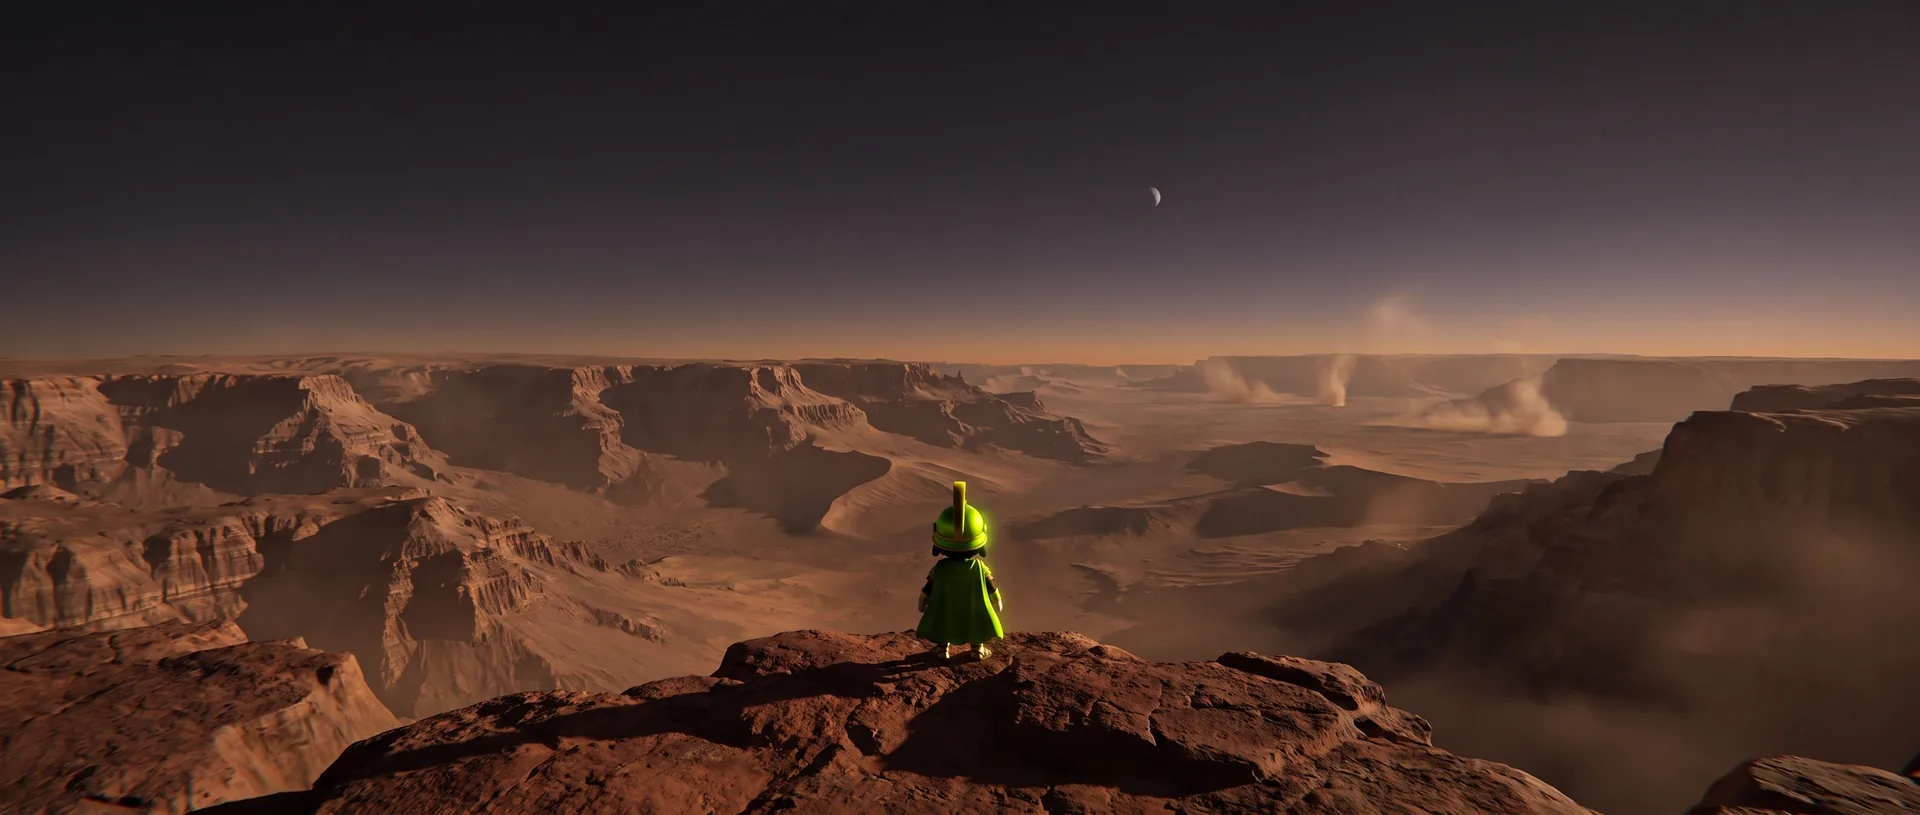
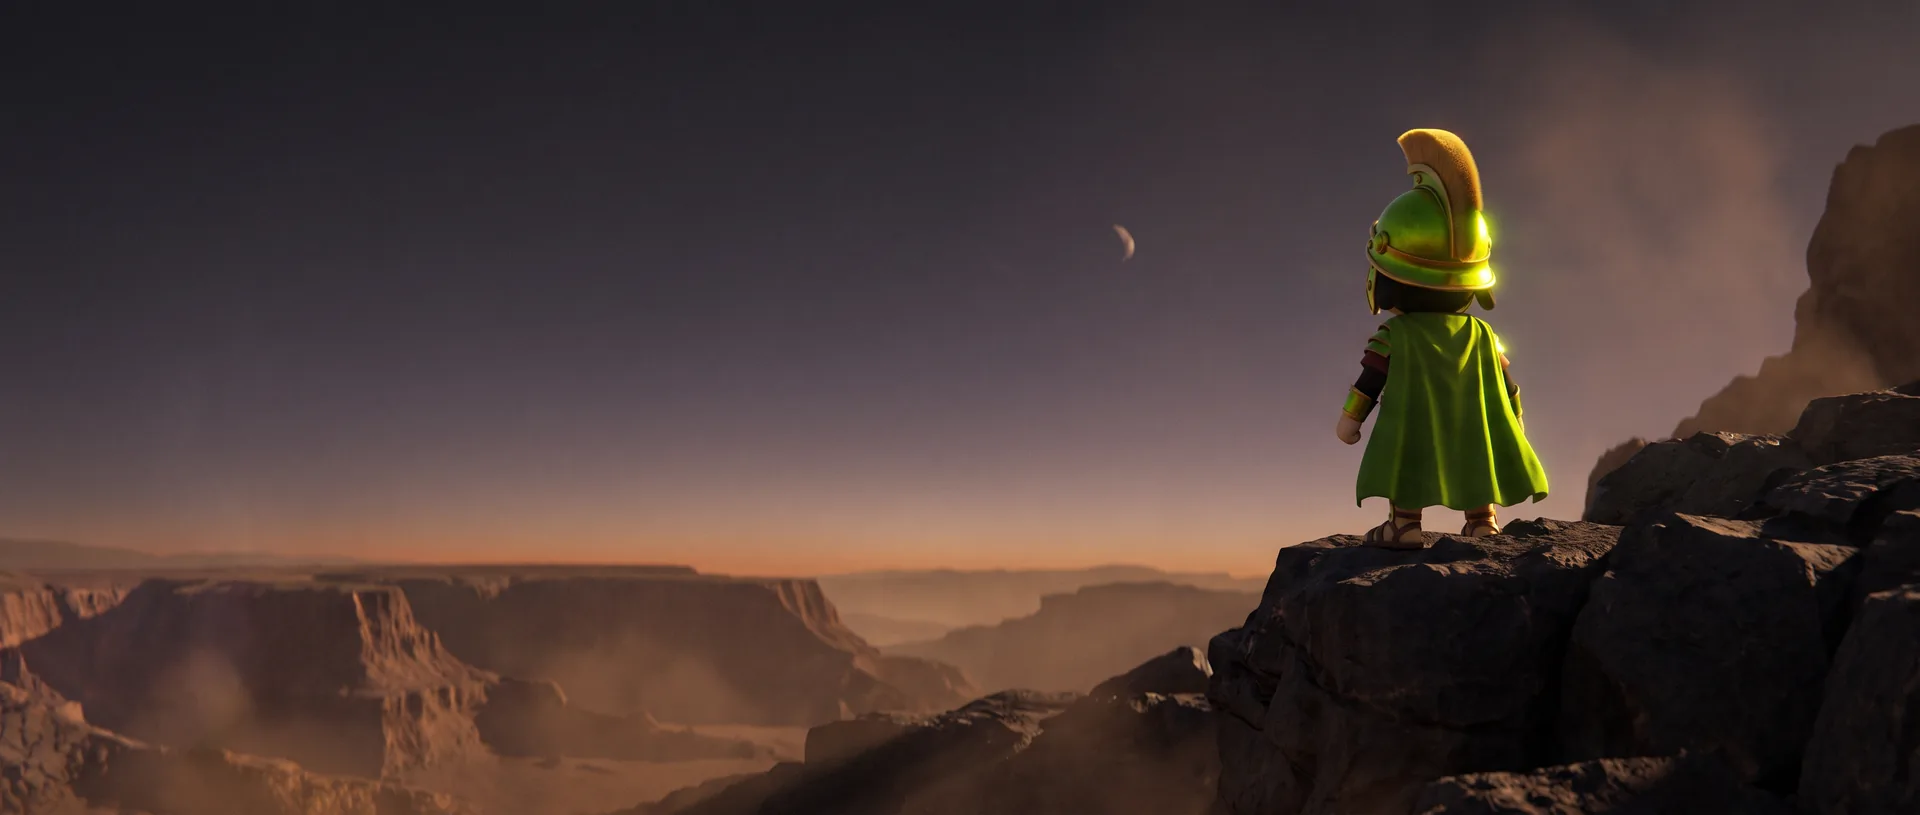
New hero frame and per-breakpoint crop
Reshot the hero so Marvin reads at medium-long range in the right third with
the sky open on the left for the display type. Desktop holds the right of the
21:9 crop; the portrait frame under 760px centres its own subject instead.

diff --git a/src/styles/sections.css b/src/styles/sections.css
@@ -120,9 +120,9 @@
 .hero__media { position: absolute; inset: -6% 0 0; will-change: transform; }
 .hero__media img,
 .hero__media picture { width: 100%; height: 112%; object-fit: cover; display: block; }
-/* The subject sits mid-frame in the source; biasing the crop left of centre
-   slides them clear of the display type. */
-.hero__media img { opacity: 0.92; object-position: 22% 46%; }
+/* The subject stands in the right third of the source; hold that side in the
+   crop so they survive the 21:9 -> viewport squeeze. */
+.hero__media img { opacity: 0.95; object-position: 74% 50%; }
 
 .hero__scrim {
   position: absolute;
@@ -738,6 +738,8 @@
   .slabwall__tile { height: clamp(20px, 6vw, 34px); }
   .hero__scroll { display: none; }
   .hero__ret--b { display: none; }
+  /* The portrait frame centres its subject; the desktop bias would crop it out. */
+  .hero__media img { object-position: 50% 62%; }
 }
 
 @media (max-width: 620px) {
